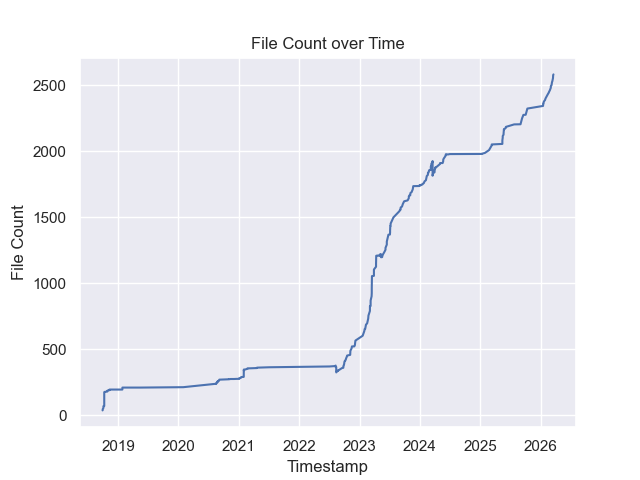
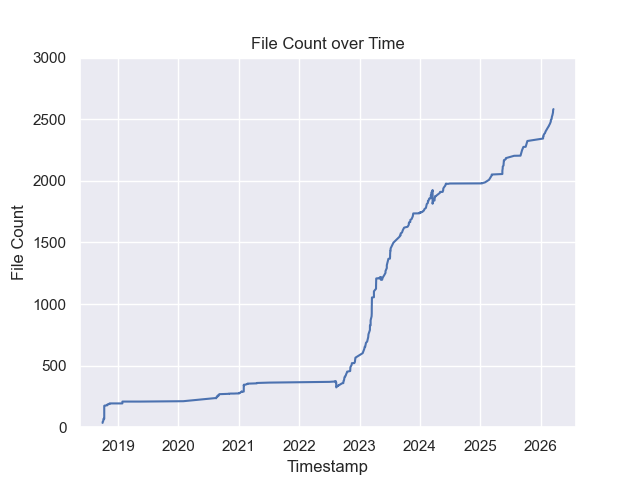
Update stats, plus adjust graphs

diff --git a/.stats/render_commit_stats.py b/.stats/render_commit_stats.py
@@ -111,9 +111,14 @@ def render_commit_stats():
     plt.xlabel("Timestamp")
     plt.ylabel("Word Count")
 
+    # Set y limit to nearest 50k above the max word count to make the graph easier to read
+    max_words = df_stats.num_words.max()
+    y_limit = ((max_words // 50_000) + 1) * 50_000
+    plt.ylim(0, y_limit)
+
     plt.yticks(
-        ticks=[n for n in range(50_000, 301_000, 50_000)],
-        labels=[f"{n}k" for n in range(50, 301, 50)],
+        ticks=[n for n in range(50_000, y_limit + 1, 50_000)],
+        labels=[f"{n}k" for n in range(50, (y_limit // 1_000) + 1, 50)],
     )
 
     plt.savefig(WORDCOUNT_IMAGE_FILE)
@@ -124,6 +129,12 @@ def render_commit_stats():
     plt.title("File Count over Time")
     plt.xlabel("Timestamp")
     plt.ylabel("File Count")
+
+    # Set y limit to nearest 500 above the max file count to make the graph easier to read
+    max_files = df_stats.num_files.max()
+    y_limit = ((max_files // 500) + 1) * 500
+    plt.ylim(0, y_limit)
+
     plt.savefig(FILECOUNT_IMAGE_FILE)
 
 
